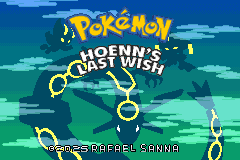
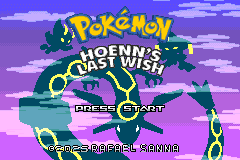
39.5 fixing bg on birchspeech

diff --git a/src/main_menu.c b/src/main_menu.c
@@ -1334,7 +1334,7 @@ static void Task_NewGameBirchSpeech_WaitToShowBirch(u8 taskId)
         gSprites[spriteId].invisible = FALSE;
         gSprites[spriteId].oam.objMode = ST_OAM_OBJ_BLEND;
         NewGameBirchSpeech_StartFadeInTarget1OutTarget2(taskId, 10);
-        NewGameBirchSpeech_StartFadePlatformOut(taskId, 20);
+        ///NewGameBirchSpeech_StartFadePlatformOut(taskId, 20);
         gTasks[taskId].tTimer = 80;
         gTasks[taskId].func = Task_NewGameBirchSpeech_WaitForSpriteFadeInWelcome;
     }
@@ -1407,7 +1407,7 @@ static void Task_NewGameBirchSpeech_StartBirchLotadPlatformFade(u8 taskId)
         gSprites[gTasks[taskId].tBirchSpriteId].oam.objMode = ST_OAM_OBJ_BLEND;
         gSprites[gTasks[taskId].tLotadSpriteId].oam.objMode = ST_OAM_OBJ_BLEND;
         NewGameBirchSpeech_StartFadeOutTarget1InTarget2(taskId, 2);
-        NewGameBirchSpeech_StartFadePlatformIn(taskId, 1);
+        ///NewGameBirchSpeech_StartFadePlatformIn(taskId, 1);
         gTasks[taskId].tTimer = 64;
         gTasks[taskId].func = Task_NewGameBirchSpeech_SlidePlatformAway;
     }
@@ -1448,7 +1448,7 @@ static void Task_NewGameBirchSpeech_StartPlayerFadeIn(u8 taskId)
             gTasks[taskId].tPlayerSpriteId = spriteId;
             gTasks[taskId].tPlayerGender = MALE;
             NewGameBirchSpeech_StartFadeInTarget1OutTarget2(taskId, 2);
-            NewGameBirchSpeech_StartFadePlatformOut(taskId, 1);
+            ///NewGameBirchSpeech_StartFadePlatformOut(taskId, 1);
             gTasks[taskId].func = Task_NewGameBirchSpeech_WaitForPlayerFadeIn;
         }
     }
@@ -1613,7 +1613,7 @@ static void Task_NewGameBirchSpeech_ProcessNameYesNoMenu(u8 taskId)
             PlaySE(SE_SELECT);
             gSprites[gTasks[taskId].tPlayerSpriteId].oam.objMode = ST_OAM_OBJ_BLEND;
             NewGameBirchSpeech_StartFadeOutTarget1InTarget2(taskId, 2);
-            NewGameBirchSpeech_StartFadePlatformIn(taskId, 1);
+            ///NewGameBirchSpeech_StartFadePlatformIn(taskId, 1);
             gTasks[taskId].func = Task_NewGameBirchSpeech_SlidePlatformAway2;
             break;
         case MENU_B_PRESSED:
@@ -1653,7 +1653,7 @@ static void Task_NewGameBirchSpeech_ReshowBirchLotad(u8 taskId)
         gSprites[spriteId].oam.objMode = ST_OAM_OBJ_BLEND;
         
         NewGameBirchSpeech_StartFadeInTarget1OutTarget2(taskId, 2);
-        NewGameBirchSpeech_StartFadePlatformOut(taskId, 1);
+        ///NewGameBirchSpeech_StartFadePlatformOut(taskId, 1);
         NewGameBirchSpeech_ClearWindow(0);
         StringExpandPlaceholders(gStringVar4, gText_Birch_YourePlayer);
         AddTextPrinterForMessage(TRUE);
@@ -1672,7 +1672,7 @@ static void Task_NewGameBirchSpeech_WaitForSpriteFadeInAndTextPrinter(u8 taskId)
         {
             gSprites[gTasks[taskId].tBirchSpriteId].oam.objMode = ST_OAM_OBJ_BLEND;
             NewGameBirchSpeech_StartFadeOutTarget1InTarget2(taskId, 2);
-            NewGameBirchSpeech_StartFadePlatformIn(taskId, 1);
+            ///NewGameBirchSpeech_StartFadePlatformIn(taskId, 1);
             gTasks[taskId].tTimer = 64;
             gTasks[taskId].func = Task_NewGameBirchSpeech_AreYouReady;
         }
@@ -1702,7 +1702,7 @@ static void Task_NewGameBirchSpeech_AreYouReady(u8 taskId)
         gSprites[spriteId].oam.objMode = ST_OAM_OBJ_BLEND;
         gTasks[taskId].tPlayerSpriteId = spriteId;
         NewGameBirchSpeech_StartFadeInTarget1OutTarget2(taskId, 2);
-        NewGameBirchSpeech_StartFadePlatformOut(taskId, 1);
+        ///NewGameBirchSpeech_StartFadePlatformOut(taskId, 1);
         StringExpandPlaceholders(gStringVar4, gText_Birch_AreYouReady);
         AddTextPrinterForMessage(TRUE);
         gTasks[taskId].func = Task_NewGameBirchSpeech_ShrinkPlayer;
@@ -1793,7 +1793,7 @@ static void CB2_NewGameBirchSpeech_ReturnFromNamingScreen(void)
     DecompressDataWithHeaderVram(sBirchSpeechShadowGfx, (u8 *)VRAM);
     DecompressDataWithHeaderVram(sBirchSpeechBgMap, (u8 *)(BG_SCREEN_ADDR(7)));
     LoadPalette(sBirchSpeechBgPals, BG_PLTT_ID(0), 2 * PLTT_SIZE_4BPP);
-    LoadPalette(&sBirchSpeechBgGradientPal[1], BG_PLTT_ID(0) + 1, PLTT_SIZEOF(8));
+    /////LoadPalette(&sBirchSpeechBgGradientPal[1], BG_PLTT_ID(0) + 1, PLTT_SIZEOF(8));
     ResetTasks();
     taskId = CreateTask(Task_NewGameBirchSpeech_ReturnFromNamingScreenShowTextbox, 0);
     gTasks[taskId].tTimer = 5;
@@ -1994,24 +1994,8 @@ static void NewGameBirchSpeech_StartFadeInTarget1OutTarget2(u8 taskId, u8 delay)
 
 static void Task_NewGameBirchSpeech_FadePlatformIn(u8 taskId)
 {
-    if (gTasks[taskId].tDelayBefore)
-    {
-        gTasks[taskId].tDelayBefore--;
-    }
-    else if (gTasks[taskId].tPalIndex == 8)
-    {
-        DestroyTask(taskId);
-    }
-    else if (gTasks[taskId].tDelayTimer)
-    {
-        gTasks[taskId].tDelayTimer--;
-    }
-    else
-    {
-        gTasks[taskId].tDelayTimer = gTasks[taskId].tDelay;
-        gTasks[taskId].tPalIndex++;
-        LoadPalette(&sBirchSpeechBgGradientPal[gTasks[taskId].tPalIndex], BG_PLTT_ID(0) + 1, PLTT_SIZEOF(8));
-    }
+    // FUNÇÃO VAZIA - não muda mais as cores
+    DestroyTask(taskId);
 }
 
 static void NewGameBirchSpeech_StartFadePlatformIn(u8 taskId, u8 delay)
@@ -2028,36 +2012,8 @@ static void NewGameBirchSpeech_StartFadePlatformIn(u8 taskId, u8 delay)
 
 static void Task_NewGameBirchSpeech_FadePlatformOut(u8 taskId)
 {
-    if (gTasks[taskId].tDelayBefore)
-    {
-        gTasks[taskId].tDelayBefore--;
-    }
-    else if (gTasks[taskId].tPalIndex == 0)
-    {
-        DestroyTask(taskId);
-    }
-    else if (gTasks[taskId].tDelayTimer)
-    {
-        gTasks[taskId].tDelayTimer--;
-    }
-    else
-    {
-        gTasks[taskId].tDelayTimer = gTasks[taskId].tDelay;
-        gTasks[taskId].tPalIndex--;
-        LoadPalette(&sBirchSpeechBgGradientPal[gTasks[taskId].tPalIndex], BG_PLTT_ID(0) + 1, PLTT_SIZEOF(8));
-    }
-}
-
-static void NewGameBirchSpeech_StartFadePlatformOut(u8 taskId, u8 delay)
-{
-    u8 taskId2;
-
-    taskId2 = CreateTask(Task_NewGameBirchSpeech_FadePlatformOut, 0);
-    gTasks[taskId2].tMainTask = taskId;
-    gTasks[taskId2].tPalIndex = 8;
-    gTasks[taskId2].tDelayBefore = 8;
-    gTasks[taskId2].tDelay = delay;
-    gTasks[taskId2].tDelayTimer = delay;
+    // FUNÇÃO VAZIA - não muda mais as cores  
+    DestroyTask(taskId);
 }
 
 #undef tMainTask
